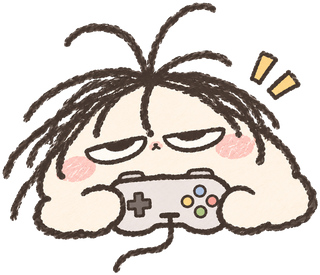
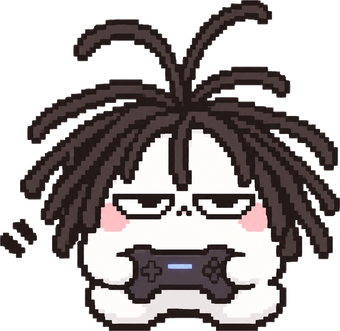
뭉지 캐릭터 이미지 교체
Claude-Session: https://claude.ai/code/session_01Se7NWANGac3Jn8WyjJQ5fP

diff --git a/index.html b/index.html
@@ -113,7 +113,7 @@ footer{text-align:center;color:var(--mint);margin-top:-12px}
       <h1 id="siteName">뭉지</h1>
       <p>바이브 코딩만으로 <b>·</b> <span style="white-space:nowrap">게임 만들기</span></p>
     </div>
-    <img class="mascot" src="mascot.png" width="320" height="275" alt="게임기를 든 도트일기 캐릭터">
+    <img class="mascot" src="mascot.png?v=2" width="340" height="331" alt="게임기를 든 뭉지">
   </header>
 
   <section id="today-sec">
